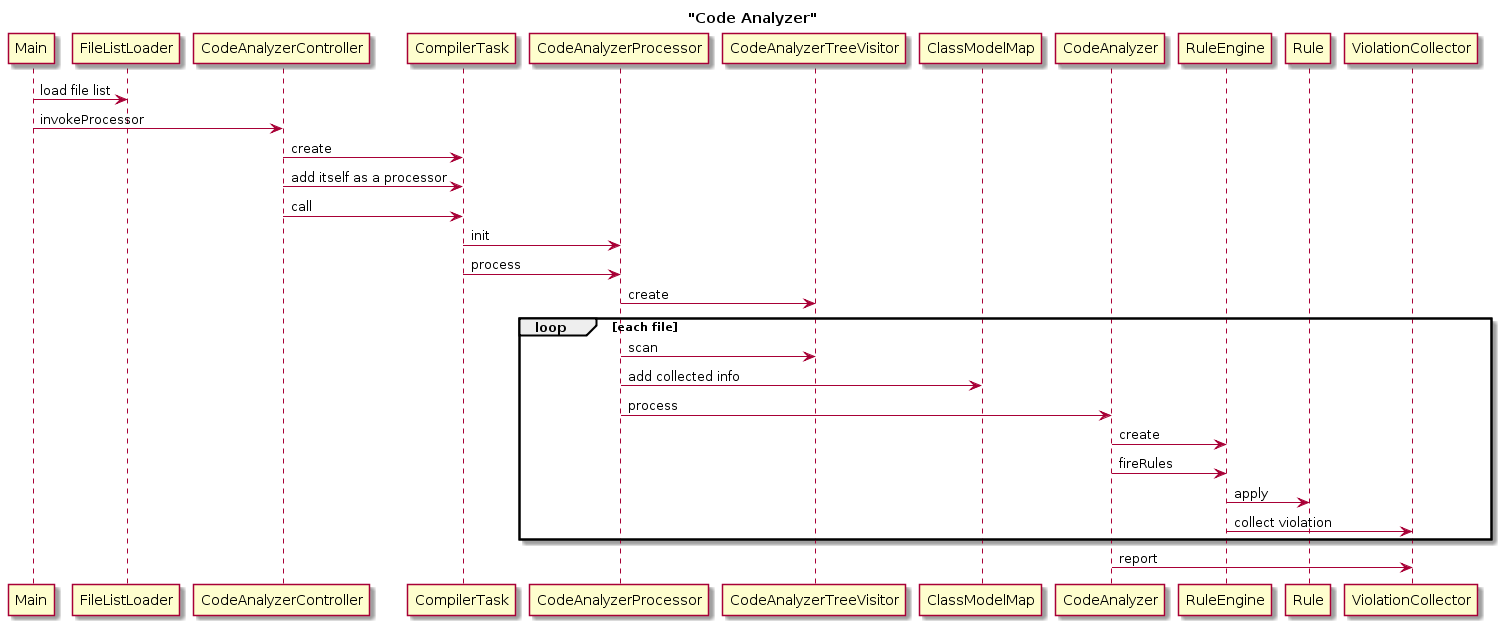
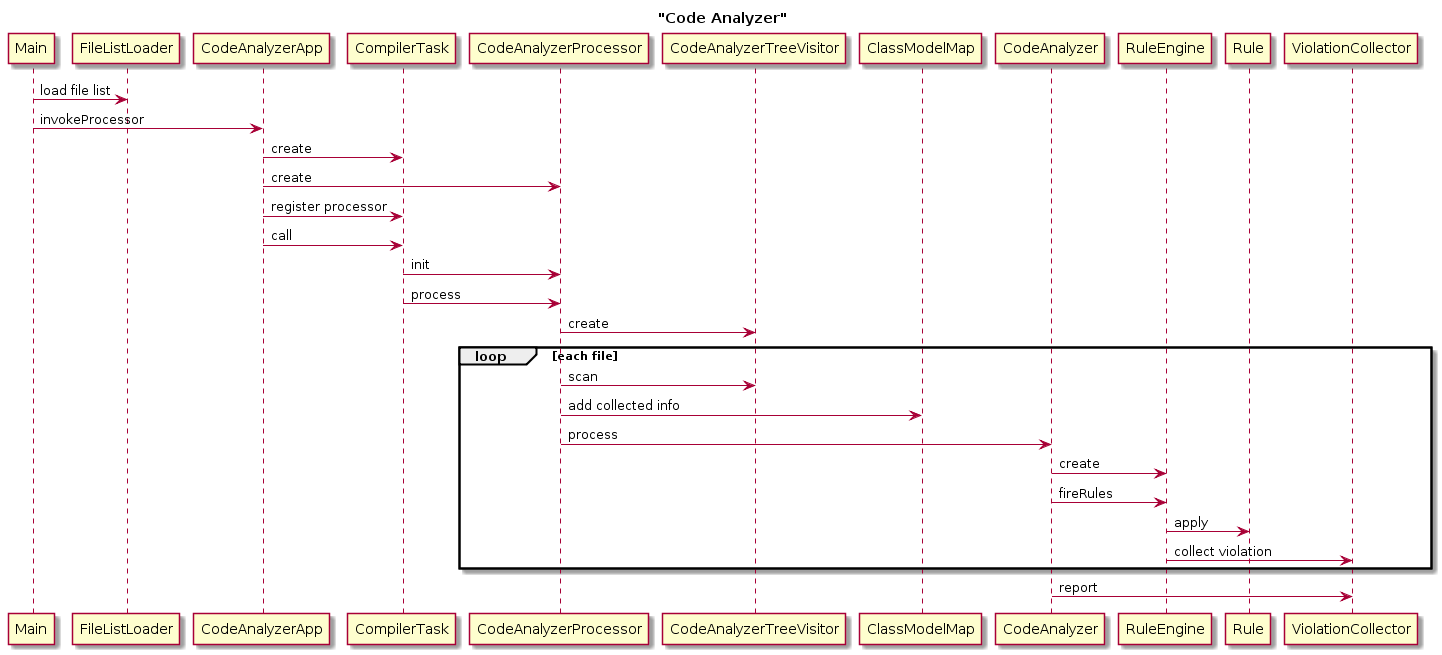
refactoring - changed CodeAnalyzerControler to CodeAnalyzerApp

diff --git a/codeanalyzer/src/main/java/demo/codeanalyzer/CodeAnalyzerApp.java b/codeanalyzer/src/main/java/demo/codeanalyzer/CodeAnalyzerApp.java
@@ -1,4 +1,4 @@
-package demo.codeanalyzer.processor;
+package demo.codeanalyzer;
 
 import java.io.IOException;
 import java.util.LinkedList;
@@ -13,21 +13,14 @@ import javax.tools.StandardJavaFileManager;
 import javax.tools.ToolProvider;
 
 import demo.codeanalyzer.common.AppContext;
+import demo.codeanalyzer.processor.CodeAnalyzerProcessor;
 
-/**
- * The controller class to initiate verification of java files using custom
- * annotation processor. The files to be verified can be supplied to this class
- * as comma-separated argument.
- * 
- * @author Seema Richard (Seema.Richard@ust-global.com)
- * @author Deepa Sobhana (Deepa.Sobhana@ust-global.com)
- * 
- */
-public class CodeAnalyzerController {
+/** This class responsibility is to create the processor, init the compiler task and run it */
+public class CodeAnalyzerApp {
 
 	private AppContext context;
 	
-	public CodeAnalyzerController(AppContext aContext) {
+	public CodeAnalyzerApp(AppContext aContext) {
 		context = aContext;
 	}
 	
@@ -38,31 +31,24 @@ public class CodeAnalyzerController {
 	 *            Names of files to be verified
 	 */
 	public void invokeProcessor(List<String> fileNames) {
-		// Gets the Java programming language compiler
+		
 		JavaCompiler compiler = ToolProvider.getSystemJavaCompiler();
 		
-		// Get a new instance of the standard file manager implementation
 		StandardJavaFileManager fileManager = compiler.getStandardFileManager(null, null, null);
 		
-		// Get the valid source files as a list
 		if (fileNames.size() > 0) {
-			// Get the list of java file objects
-			Iterable<? extends JavaFileObject> compilationUnits1 = fileManager
-					.getJavaFileObjectsFromStrings(fileNames);
 			
-			DiagnosticCollector<JavaFileObject> diagnostics =
-			        new DiagnosticCollector<JavaFileObject>();
+			Iterable<? extends JavaFileObject> compilationUnits1 = fileManager.getJavaFileObjectsFromStrings(fileNames);
 			
-			// Create the compilation task
+			DiagnosticCollector<JavaFileObject> diagnostics = new DiagnosticCollector<JavaFileObject>();
+			
 			CompilationTask task = compiler.getTask(null, fileManager, diagnostics,
 					null, null, compilationUnits1);
 			
-			// Get the list of annotation processors
 			LinkedList<AbstractProcessor> processors = new LinkedList<AbstractProcessor>();
 			processors.add(new CodeAnalyzerProcessor(context));
 			task.setProcessors(processors);
 			
-			// Perform the compilation task.
 			task.call();
 			
 			try {

diff --git a/codeanalyzer/src/main/java/demo/codeanalyzer/Main.java b/codeanalyzer/src/main/java/demo/codeanalyzer/Main.java
@@ -4,8 +4,7 @@ package demo.codeanalyzer;
 import java.util.List;
 
 import demo.codeanalyzer.common.AppContext;
-import demo.codeanalyzer.input.FileListLoader;
-import demo.codeanalyzer.processor.CodeAnalyzerController;
+import demo.codeanalyzer.util.FileListLoader;
 
 
 public class Main {
@@ -14,19 +13,17 @@ public class Main {
 
 		String basedir = "/Users/claude.falguiere/Documents/2014-12/CN-ClubMed-SOA/Export-Clubmed";
 		String listFilename = "../imports.txt";
+		int max = 4;
 		
 		try {
 			AppContext context = new AppContext();
 			
-			
 			FileListLoader loader = new FileListLoader();
-			int max = 4;
 			List<String> filenames = loader.loadFilenames(basedir, listFilename, max);
-
 			System.out.format("Selected files %s%n", filenames);
 			
 			context.createCodeAnalyzer();
-			CodeAnalyzerController cac = new CodeAnalyzerController(context);
+			CodeAnalyzerApp cac = new CodeAnalyzerApp(context);
 			cac.invokeProcessor(filenames);
 
 		} catch (Exception e) {

diff --git a/codeanalyzer/src/main/java/demo/codeanalyzer/util/FileListLoader.java b/codeanalyzer/src/main/java/demo/codeanalyzer/util/FileListLoader.java
@@ -1,4 +1,4 @@
-package demo.codeanalyzer.input;
+package demo.codeanalyzer.util;
 
 import java.io.BufferedReader;
 import java.io.File;
